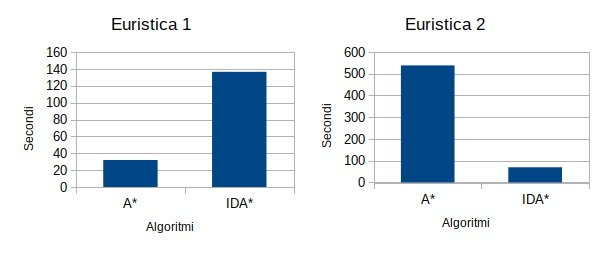
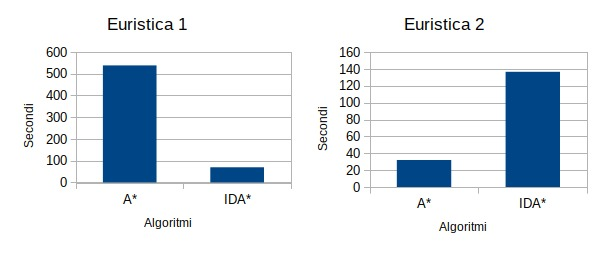
Correzione analisi

diff --git a/relazione/src/06-analisi.md b/relazione/src/06-analisi.md
@@ -5,7 +5,7 @@
 Abbiamo confrontato i tre algoritmi su tre domini e utilizzando due euristiche differenti.
 I parametri utilizzati per il confronto sono quattro:
 
-- Number of inferences: Il numero di inferenze effettuato dall'algoritmo in un esecuzione
+- inferences: Il numero di inferenze effettuato dall'algoritmo in un esecuzione
 - Execution Time: Tempo di un esecuzione in secondi
 - Number of lips: Logical Inferences Per Second
 - First Solution length: Il numero di passi presenti nella prima soluzione trovata.
@@ -14,7 +14,7 @@ Infine abbiamo confrontato i tre algoritmi su uno stesso dominio ma assegnando a
 
 Caratteristiche macchina utilizzata:
 
-* SO Ubuntu 18.04 
+* SO Ubuntu 18.04 LTS
 * Processore Intel Core i5 5200U
 * Frequenza Massima 2,70 GHz
 * Chache 3 MB
@@ -149,17 +149,13 @@ Il tempo d'esecuzione dell'iterative deepening nel dominio tre è di $\approx$ 1
 
 Questo dimostra come la prima euristica sia decisamente poco efficace. Di fatto rende i due algoritmi basati su ricerca informata meno efficenti di un algoritmo di ricerca non informata.
 
-Per quanto riguarda il confronto degli algoritmi a ricerca informata per costi differenti, notiamo come questo causi un ribaltamento delle prestazioni tra i due algoritmi.
-Infatti utilizzando la prima euristica,  `A*` risulta più efficente di `IDA*`,utilizzando la seconda accade esattamente il contrario.
+Per quanto riguarda il confronto degli algoritmi a ricerca informata per costi differenti, notiamo come questi causino un leggero miglioramento con l'utilizzo della prima euristica, ma un importante peggioramento con l'utilizzo della seconda euristica.
 
-Infine notiamo come aumentando il costo di determinate azioni, gli algoritmi a ricerca informata funzionino leggermente meglio utilizzando la prima euristica ma peggiorino decisamente utilizzando la seconda.
+Aumentando il costo di determinate azioni, gli algoritmi a ricerca informata funzionano leggermente meglio utilizzando la prima euristica, peggiorino decisamente utilizzando la seconda.
 
-Un ultima osservazione va fatta riguardo le dimensioni e le complessità dei domini testati. Le relazioni ottenute tra gli algoritmi per il dominio 3 si mantengono per tutti i domini ad eccezione del dominio due, ovvero il più complesso.
+Un ultima osservazione va fatta riguardo le dimensioni e le complessità dei domini testati. Le relazioni ottenute tra gli algoritmi per il dominio 3, si mantengono per tutti i domini ad eccezione del dominio due, ovvero il più complesso.
 
 In questo caso, per quanto riguarda la prima euristica, non siamo riusciti ad ottenere dati riguardo l'algoritmo `A*`. l'esecuzione infatti è terminata a  causa dell'esaurimento della memoria.
 
 Per quanto riguarda l'utilizzo della seconda euristica invece, vediamo come `IDA*` abbia prestazioni stranamente peggiori tra tutti gli algoritmi, con un tempo di esecuzione di ben $\approx$ 20 minuti.
-
-fare media eurisica due dominio tre.
-controllare ida*  euristica due, dominio 2.
 
